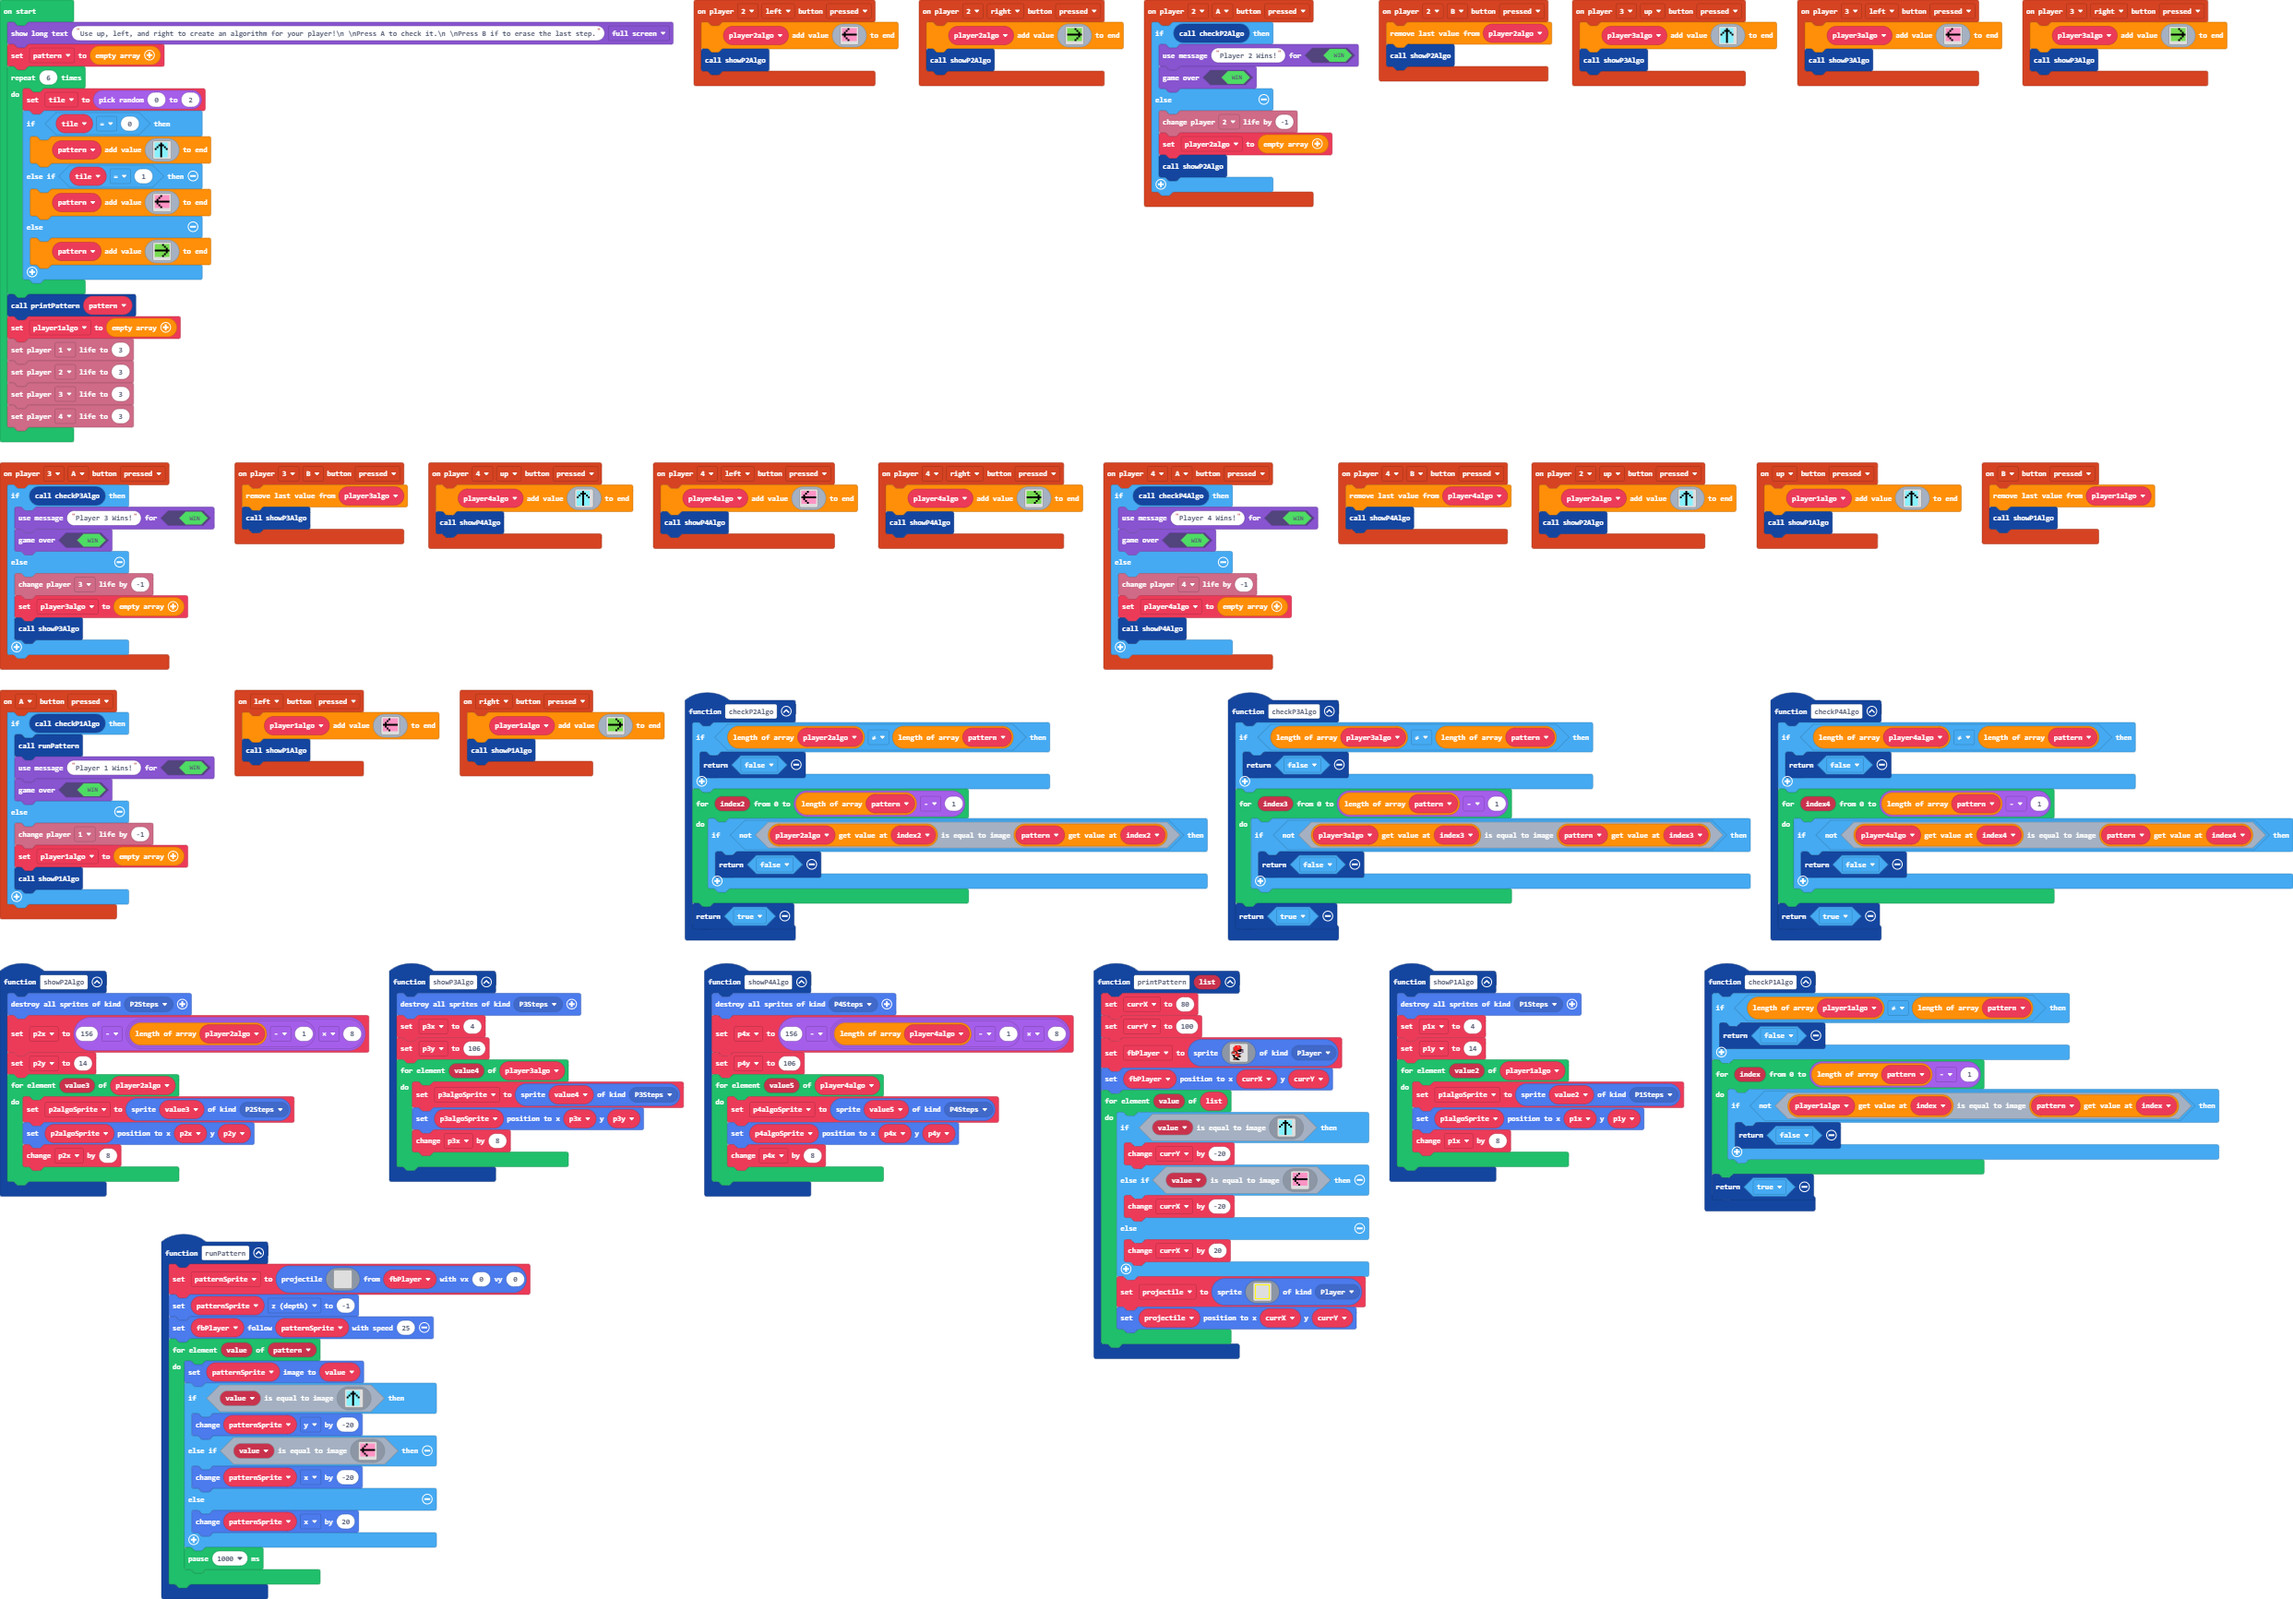
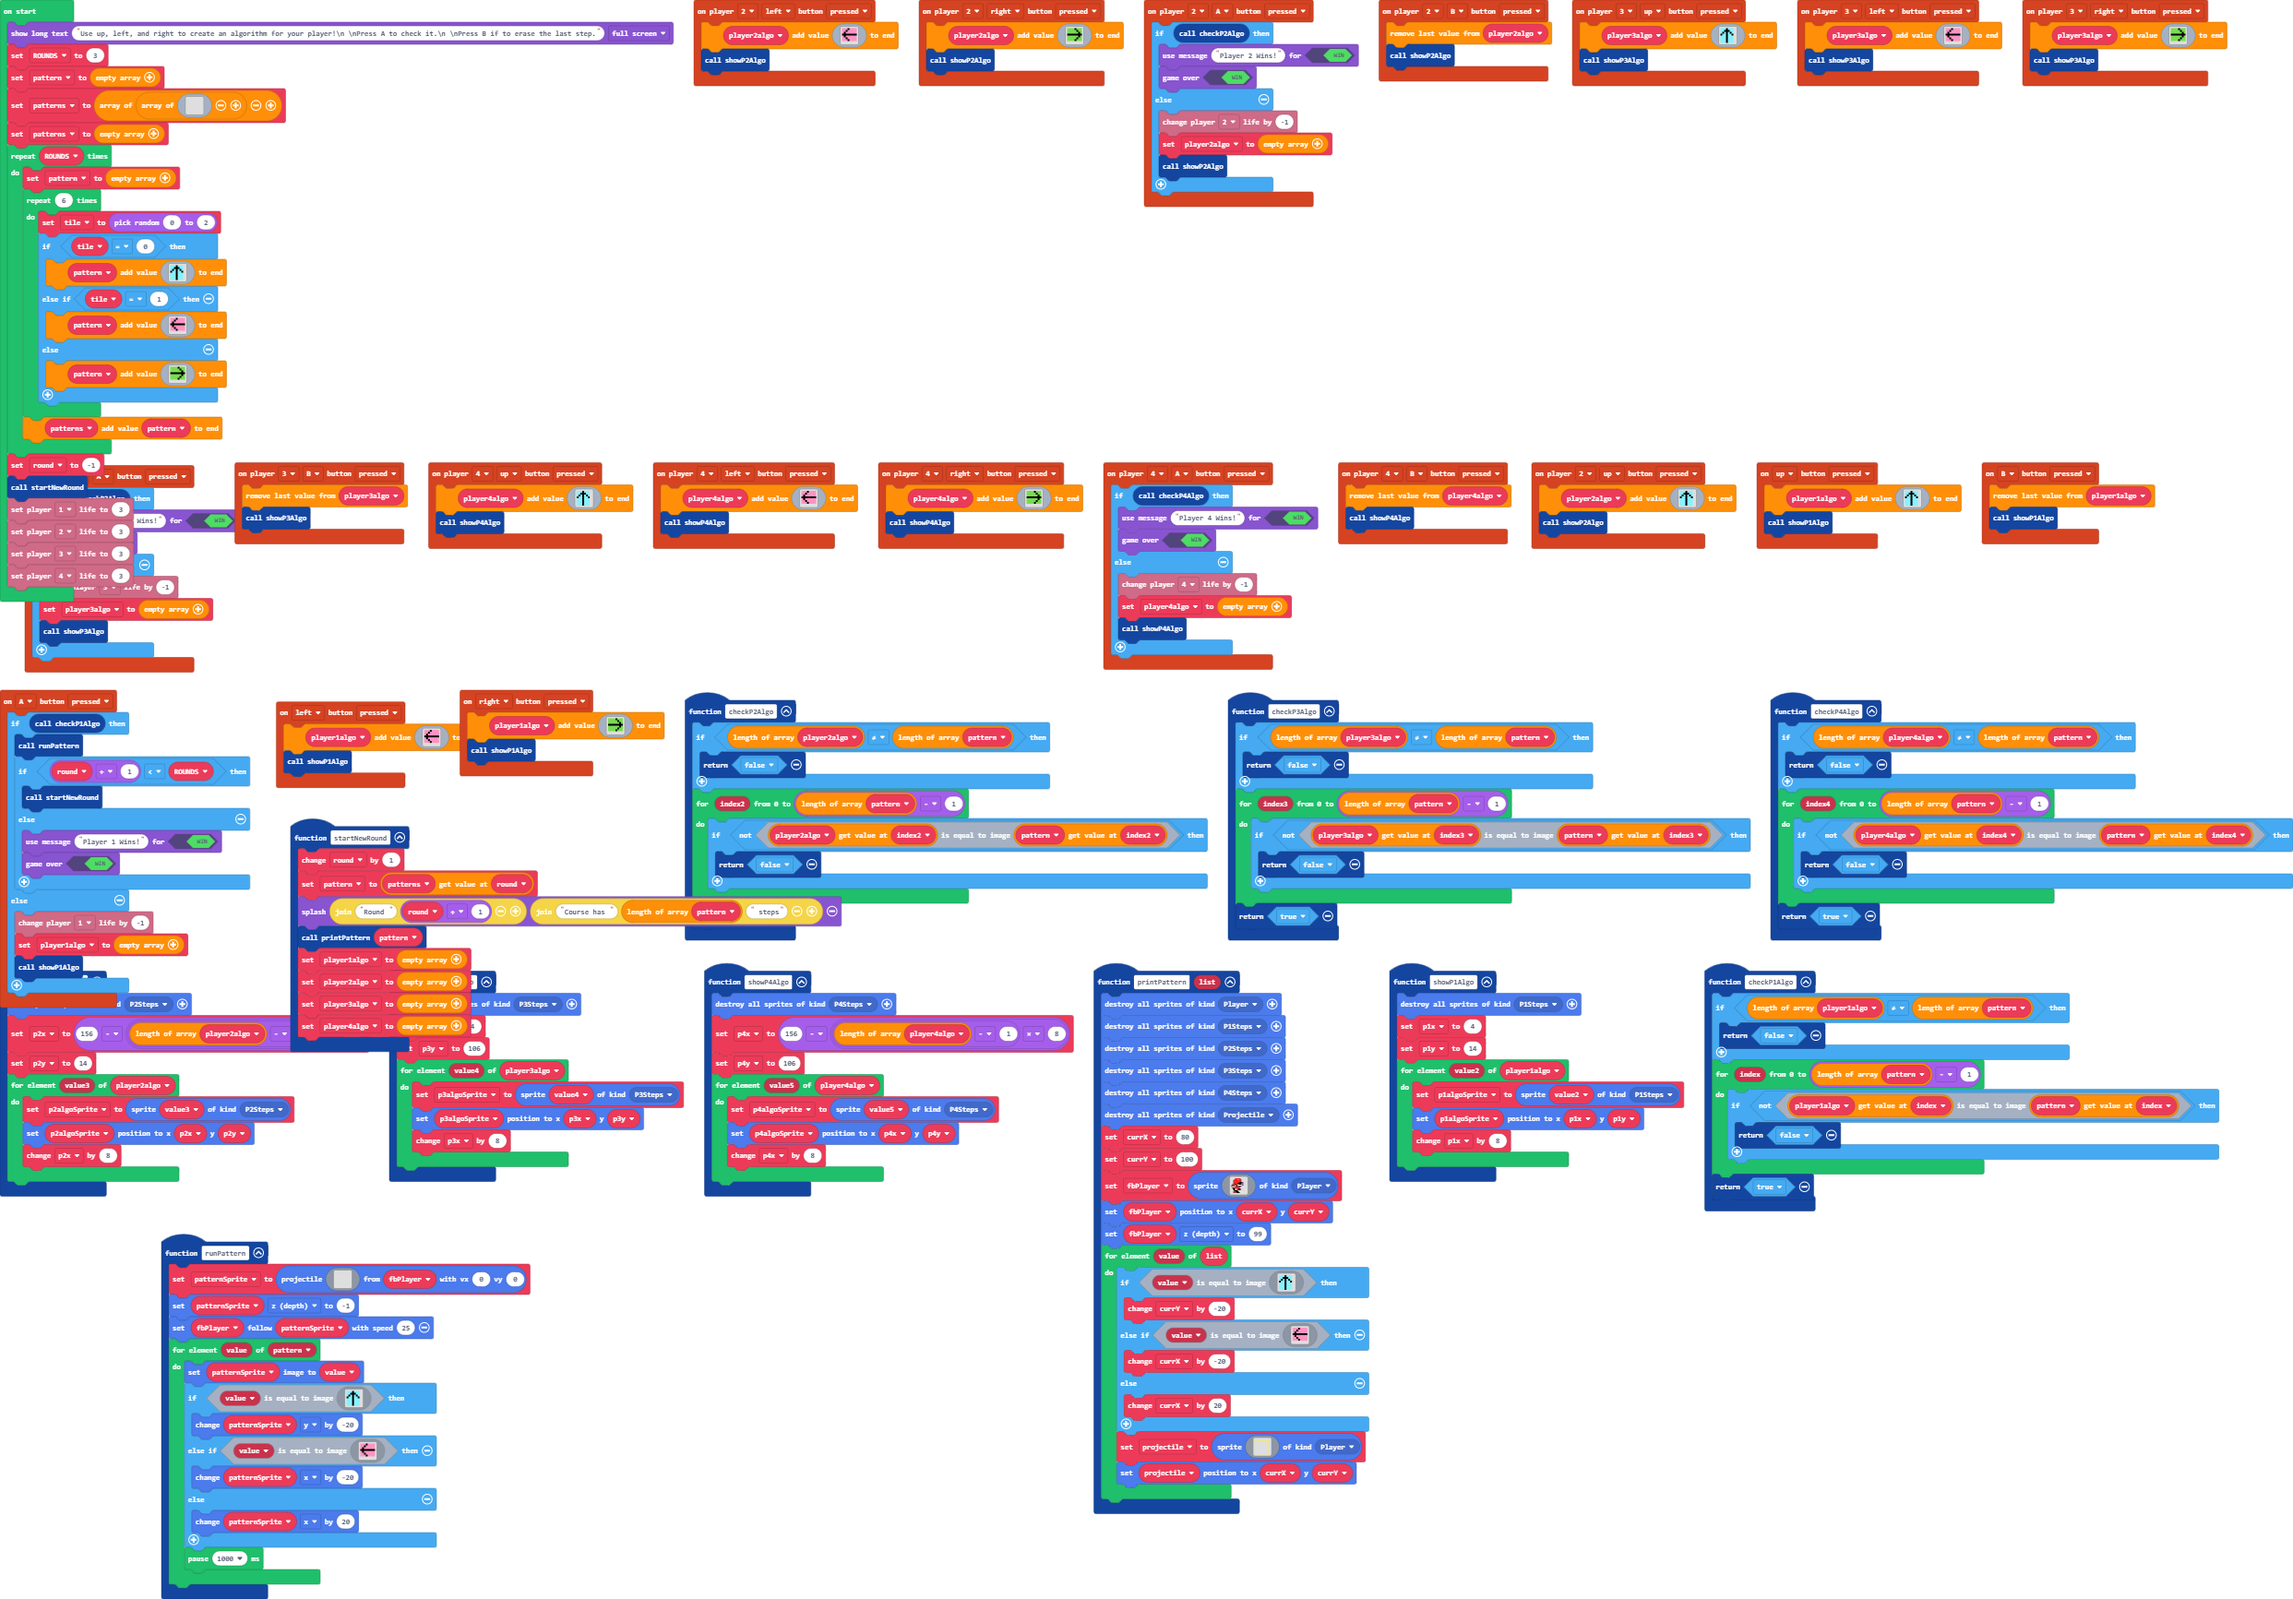
Add multiple rounds.

Changed region(s): [[0.0, 0.0312, 0.3718, 0.6855], [0.4648, 0.6232, 0.6197, 0.966]]

diff --git a/main.ts b/main.ts
@@ -62,8 +62,12 @@ function checkP4Algo () {
 controller.A.onEvent(ControllerButtonEvent.Pressed, function () {
     if (checkP1Algo()) {
         runPattern()
-        game.setGameOverMessage(true, "Player 1 Wins!")
-        game.gameOver(true)
+        if (round + 1 < ROUNDS) {
+            startNewRound()
+        } else {
+            game.setGameOverMessage(true, "Player 1 Wins!")
+            game.gameOver(true)
+        }
     } else {
         info.player1.changeLifeBy(-1)
         player1algo = []
@@ -121,6 +125,16 @@ controller.player2.onButtonEvent(ControllerButton.Right, ControllerButtonEvent.P
     player2algo.push(assets.image`rightArrow`)
     showP2Algo()
 })
+function startNewRound () {
+    round += 1
+    pattern = patterns[round]
+    game.splash("Round " + (round + 1), "Course has " + pattern.length + " steps")
+    printPattern(pattern)
+    player1algo = []
+    player2algo = []
+    player3algo = []
+    player4algo = []
+}
 controller.player4.onButtonEvent(ControllerButton.A, ControllerButtonEvent.Pressed, function () {
     if (checkP4Algo()) {
         game.setGameOverMessage(true, "Player 4 Wins!")
@@ -205,10 +219,17 @@ function checkP2Algo () {
     return true
 }
 function printPattern (list: Image[]) {
+    sprites.destroyAllSpritesOfKind(SpriteKind.Player)
+    sprites.destroyAllSpritesOfKind(SpriteKind.P1Steps)
+    sprites.destroyAllSpritesOfKind(SpriteKind.P2Steps)
+    sprites.destroyAllSpritesOfKind(SpriteKind.P3Steps)
+    sprites.destroyAllSpritesOfKind(SpriteKind.P4Steps)
+    sprites.destroyAllSpritesOfKind(SpriteKind.Projectile)
     currX = 80
     currY = 100
     fbPlayer = sprites.create(assets.image`player`, SpriteKind.Player)
     fbPlayer.setPosition(currX, currY)
+    fbPlayer.z = 99
     for (let value of list) {
         if (value.equals(assets.image`upArrow`)) {
             currY += -20
@@ -258,28 +279,55 @@ let p4algoSprite: Sprite = null
 let p4y = 0
 let p4x = 0
 let player3algo: Image[] = []
+let player1algo: Image[] = []
 let player4algo: Image[] = []
 let p2algoSprite: Sprite = null
 let p2y = 0
 let player2algo: Image[] = []
 let p2x = 0
-let player1algo: Image[] = []
+let round = 0
 let tile = 0
+let patterns: Image[][] = []
 let pattern: Image[] = []
+let ROUNDS = 0
 game.showLongText("Use up, left, and right to create an algorithm for your player!\\n \\nPress A to check it.\\n \\nPress B if to erase the last step.", DialogLayout.Full)
+ROUNDS = 3
 pattern = []
-for (let index = 0; index < 6; index++) {
-    tile = randint(0, 2)
-    if (tile == 0) {
-        pattern.push(assets.image`upArrow`)
-    } else if (tile == 1) {
-        pattern.push(assets.image`leftArrow`)
-    } else {
-        pattern.push(assets.image`rightArrow`)
+patterns = [[img`
+    . . . . . . . . . . . . . . . . 
+    . . . . . . . . . . . . . . . . 
+    . . . . . . . . . . . . . . . . 
+    . . . . . . . . . . . . . . . . 
+    . . . . . . . . . . . . . . . . 
+    . . . . . . . . . . . . . . . . 
+    . . . . . . . . . . . . . . . . 
+    . . . . . . . . . . . . . . . . 
+    . . . . . . . . . . . . . . . . 
+    . . . . . . . . . . . . . . . . 
+    . . . . . . . . . . . . . . . . 
+    . . . . . . . . . . . . . . . . 
+    . . . . . . . . . . . . . . . . 
+    . . . . . . . . . . . . . . . . 
+    . . . . . . . . . . . . . . . . 
+    . . . . . . . . . . . . . . . . 
+    `]]
+patterns = []
+for (let index = 0; index < ROUNDS; index++) {
+    pattern = []
+    for (let index = 0; index < 6; index++) {
+        tile = randint(0, 2)
+        if (tile == 0) {
+            pattern.push(assets.image`upArrow`)
+        } else if (tile == 1) {
+            pattern.push(assets.image`leftArrow`)
+        } else {
+            pattern.push(assets.image`rightArrow`)
+        }
     }
+    patterns.push(pattern)
 }
-printPattern(pattern)
-player1algo = []
+round = -1
+startNewRound()
 info.player1.setLife(3)
 info.player2.setLife(3)
 info.player3.setLife(3)
